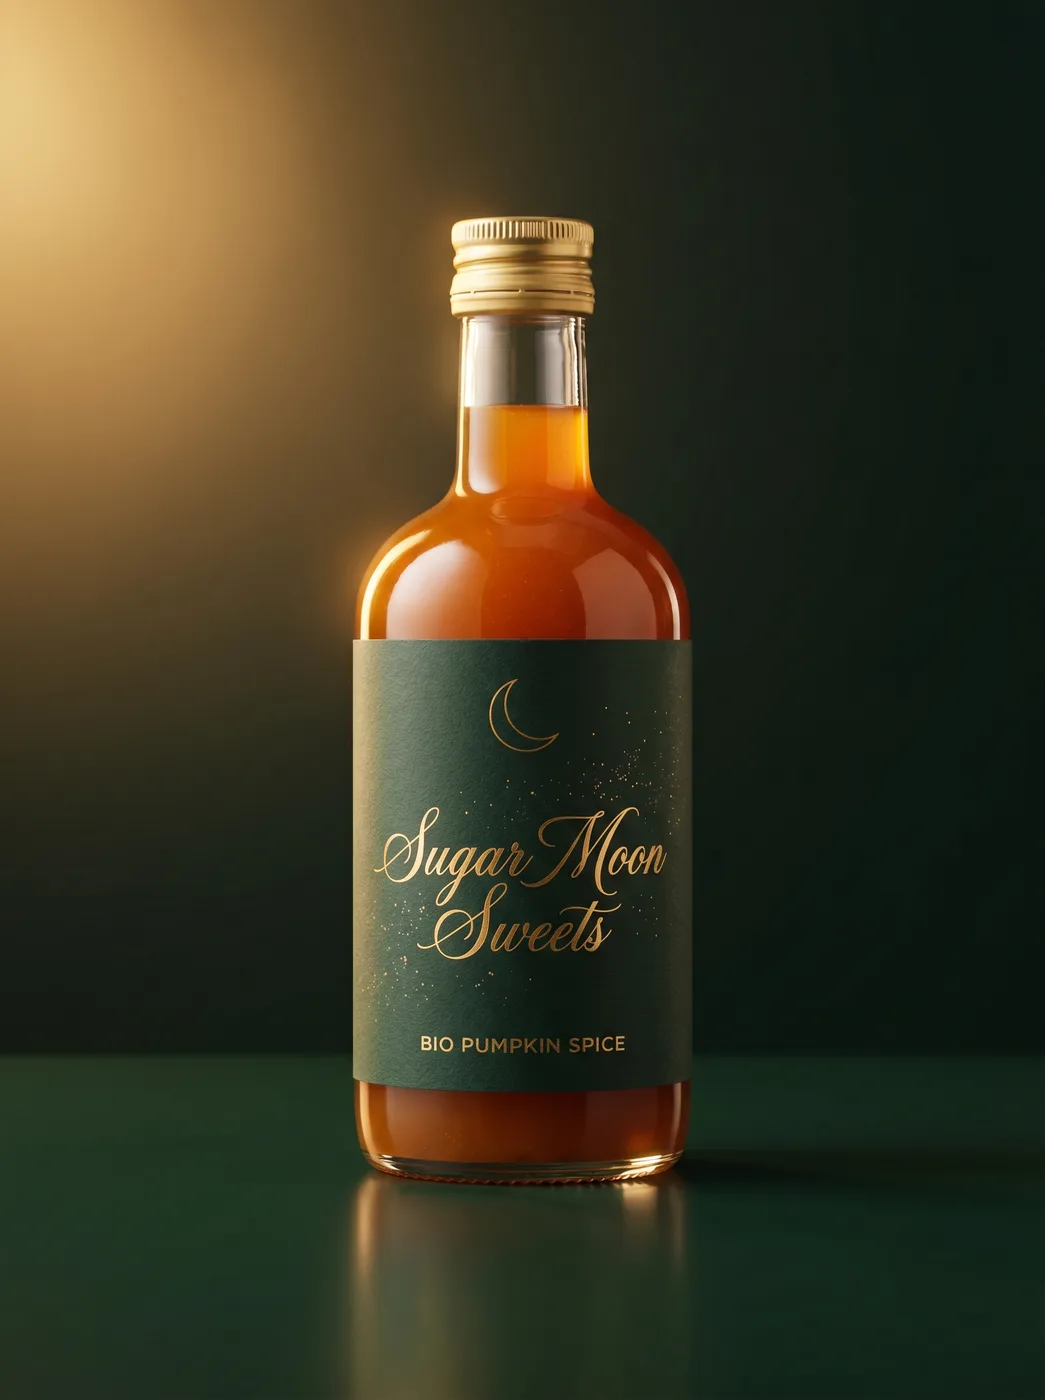
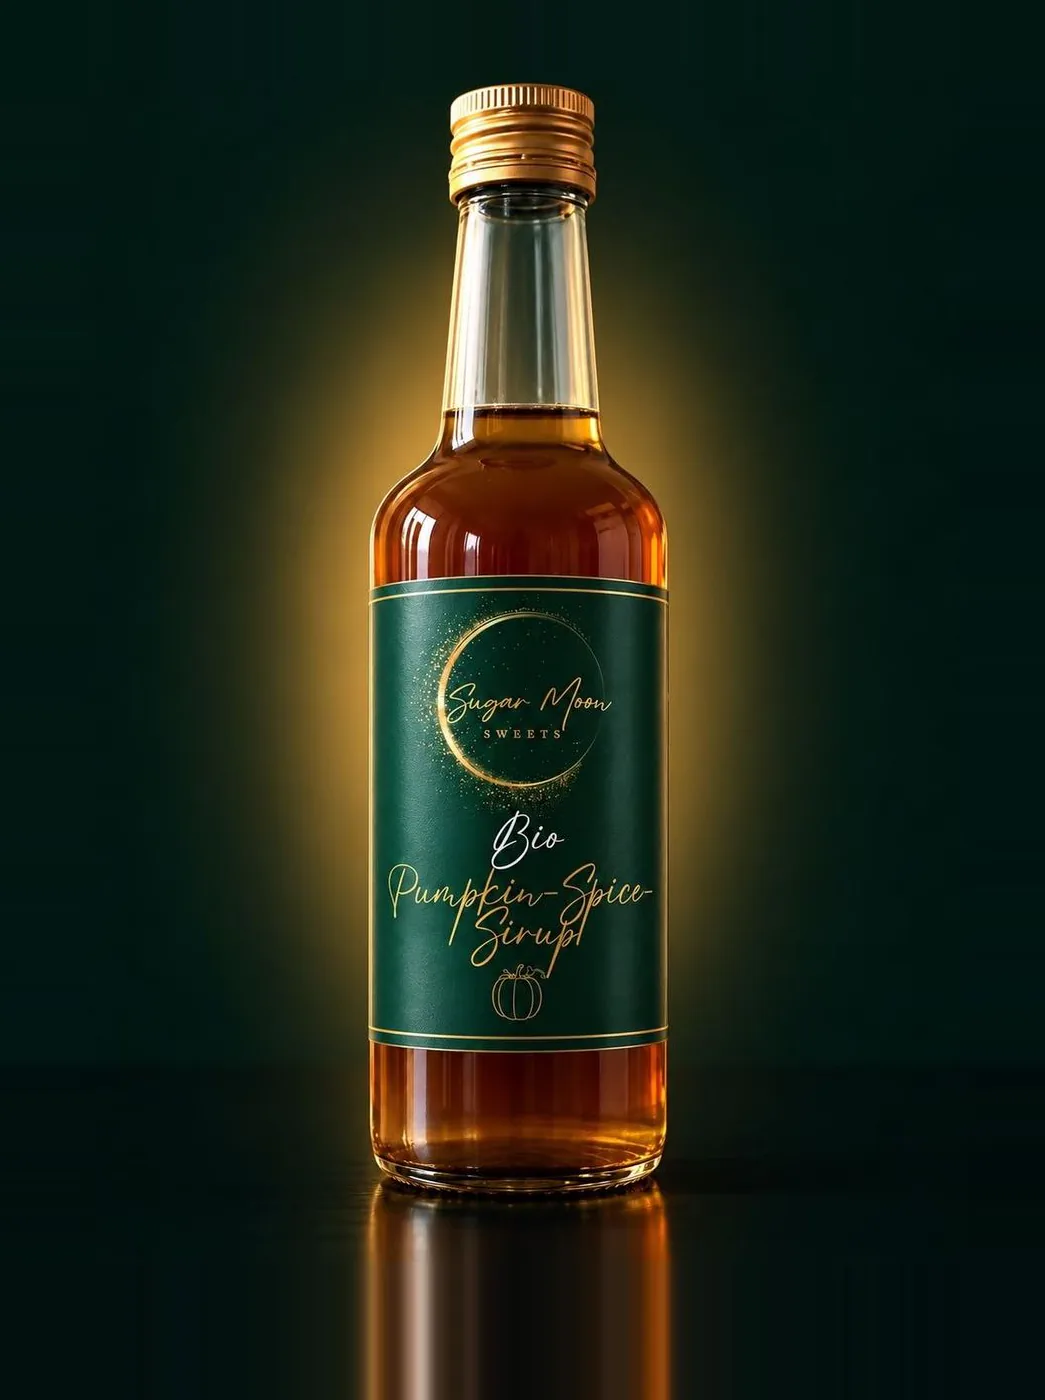
Stand-Foto und Pumpkin Spice durch Inhaber-Aufnahmen ersetzen (#3)
Zwei nachgelieferte Aufnahmen des Inhabers ersetzen die bisherigen Bilder:

- public/media/story.jpg — neues Marktstand-Foto (Jessica & Sebastian),
  1400x1120, JPEG q82, 160 KB statt 266 KB.
- public/media/relit/pumpkin-spice.webp — echtes Produktfoto statt des
  bisherigen KI-Renderings. Bratapfel bleibt das einzige KI-Bild der Seite.

Vorab wurden Bildunterschrift und Alt-Texte des Stand-Fotos auf die vom
Inhaber gewaehlte neutrale Variante ohne Ortsangabe umgestellt, damit sie
auch auf das neue, sommerliche Foto zutreffen. Dateinamen bleiben gleich,
kein Codepfad aendert sich.

Am Pumpkin-Foto wurde nur der Ausschnitt angepasst: Die Flasche fuellte
98 % der Bildhoehe, die Geschwisterbilder liegen bei 78-87 %. Sie steht
jetzt bei 86 %, der freiwerdende Rand ist durch Fortsetzen der Randpixel
aufgefuellt (Kanten-Delta <= 2 von 255). Kein Retuschieren, keine
Farbaenderung.

Originale bleiben unangetastet in source-assets/products/ bzw.
source-assets/ai-renders/. Doku nachgezogen: DECISIONS D29,
ASSET_INVENTORY, COPY_CHANGELOG, FINAL_REPORT, source-assets/README.

Geprueft: typecheck, lint, build (25/25 Seiten) gruen; Preview-Deployment
liefert beide Bilder byte-identisch aus.

diff --git a/app/ausstellungen/page.tsx b/app/ausstellungen/page.tsx
@@ -52,12 +52,14 @@ export default function AusstellungenPage() {
               </p>
             </div>
 
-            {/* So sieht das aus: der echte Stand in Rothemann — füllt die
-                vorher leere Kartenhälfte (Design-Review). */}
+            {/* So sieht das aus: der echte Marktstand — füllt die vorher
+                leere Kartenhälfte (Design-Review). Bildunterschrift/Alt
+                bewusst ohne Ortsangabe, damit sie zu jedem Stand-Foto passt
+                (Inhaber-Entscheidung). */}
             <div className="relative hidden min-h-[300px] md:block">
               <Image
                 src={storyImage}
-                alt="Jessica und Sebastian am Sugar-Moon-Stand, Adventsmarkt Rothemann"
+                alt="Jessica und Sebastian am Sugar-Moon-Marktstand"
                 fill
                 sizes="(min-width: 768px) 45vw, 100vw"
                 className="object-cover object-center"

diff --git a/components/sections/Story.tsx b/components/sections/Story.tsx
@@ -61,7 +61,7 @@ export function Story({
             <div className="relative aspect-[4/3] bg-night-3">
               <Image
                 src={storyImage}
-                alt="Jessica und Sebastian von Sugar Moon Sweets an ihrem Stand auf dem Adventsmarkt in Rothemann"
+                alt="Jessica und Sebastian von Sugar Moon Sweets an ihrem Marktstand"
                 fill
                 sizes="(max-width:1024px) 100vw, 560px"
                 className="object-cover object-center"
@@ -86,7 +86,7 @@ export function Story({
             </div>
           </div>
           <p className="mt-3 text-center font-mono text-[0.6rem] uppercase tracking-wide text-moon-mute">
-            Jessica &amp; Sebastian · Adventsmarkt Rothemann
+            Jessica &amp; Sebastian
           </p>
         </Reveal>
       </div>

diff --git a/data/enhanced.ts b/data/enhanced.ts
@@ -19,7 +19,10 @@ export const enhancedPhotos: Record<string, string> = {
   "vanille-extrakt": "/media/relit/vanille-extrakt.webp",
   "geschenk-lebkuchenmann": "/media/relit/geschenk-lebkuchenmann.webp",
 
-  // Studio-Renderings (text-to-image) für die Sorten ohne Originalfoto.
-  bratapfel: "/media/relit/bratapfel.webp",
+  // Echtes Inhaber-Produktfoto (nachgeliefert), nur skaliert/konvertiert —
+  // kein Relighting, kein Rendering.
   "pumpkin-spice": "/media/relit/pumpkin-spice.webp",
+
+  // Studio-Rendering (text-to-image) für die Sorte ohne Originalfoto.
+  bratapfel: "/media/relit/bratapfel.webp",
 };

diff --git a/data/media.ts b/data/media.ts
@@ -21,5 +21,5 @@ export const limoPhotos: Record<string, string> = {
   "kraut-heiter": "/media/products/kraut-heiter.jpg",
 };
 
-/** Atmosphäre-Bild für die „Über uns"-Story: Jessica & Sebastian am Adventsmarkt. */
+/** Atmosphäre-Bild für die „Über uns"-Story: Jessica & Sebastian am Marktstand. */
 export const storyImage = "/media/story.jpg";

diff --git a/docs/rebuild/ASSET_INVENTORY.md b/docs/rebuild/ASSET_INVENTORY.md
@@ -5,13 +5,15 @@
 
 ## 1. Produktfotos (Inhaber-Originale)
 
-Anlieferung: **13 Dateien** vom Inhaber in `source-assets/products/` —
-10 Produkt-/Flaschenmotive + `adventsmarkt-jessica-sebastian.jpg` +
+Anlieferung: **15 Dateien** vom Inhaber in `source-assets/products/` —
+11 Produkt-/Flaschenmotive + zwei Stand-Fotos
+(`adventsmarkt-jessica-sebastian.jpg`, `marktstand-jessica-sebastian.jpg`) +
 `limonaden-original.jpg` (Gruppenbild) + `zimt-alt.jpg` (Alternativtake).
 (CONTENT_INVENTORY §8b spricht von „11 Fotos": 10 Flaschenmotive + Adventsmarkt;
-Gruppenbild und Alternativtake kamen zusätzlich.)
-`public/media/originals/` spiegelt die **10 Flaschenmotive** zusätzlich;
-die drei übrigen Dateien liegen nur in `source-assets/products/` —
+Gruppenbild und Alternativtake kamen zusätzlich, `pumpkin-spice.jpg` und das
+neue Stand-Foto wurden später nachgeliefert — D29.)
+`public/media/originals/` spiegelt die **10 zuerst gelieferten Flaschenmotive**
+zusätzlich; die übrigen Dateien liegen nur in `source-assets/products/` —
 ebenfalls unangetastet im Repo.
 
 | Sorte / Motiv | Original | Getönt (Fallback) | Relit (aktiv im Shop) |
@@ -26,8 +28,10 @@ ebenfalls unangetastet im Repo.
 | Bio-Kokos | `…/kokos.jpg` | `…/kokos.jpg` | `…/kokos.webp` |
 | Bio-Vanille-Extrakt | `…/vanille-extrakt.jpg` | `…/vanille-extrakt.jpg` | `…/vanille-extrakt.webp` |
 | 50ml-Geschenk (Lebkuchenmann) | `…/geschenk-lebkuchenmann.jpg` | `…/geschenk-lebkuchenmann.jpg` | `…/geschenk-lebkuchenmann.webp` |
+| Bio-Pumpkin Spice *(nachgeliefert, D29)* | `…/pumpkin-spice.jpg` (1084×1451) | — | `…/pumpkin-spice.webp` (1045×1400, 61 KB) |
 | Limonaden-Gruppenfoto | `…/limonaden-original.jpg` | — | — (Quelle für Limo-Einzelbilder) |
-| Adventsmarkt **Rothemann** (Jessica & Sebastian) | `…/adventsmarkt-jessica-sebastian.jpg` | — | → `public/media/story.jpg` (Legacy-Quelle: `Advent-Rothemann_2025`) |
+| Adventsmarkt **Rothemann** (Jessica & Sebastian) | `…/adventsmarkt-jessica-sebastian.jpg` | — | — (bis D29 Quelle von `public/media/story.jpg`; Legacy-Quelle: `Advent-Rothemann_2025`) |
+| Marktstand (Jessica & Sebastian) *(nachgeliefert, D29)* | `…/marktstand-jessica-sebastian.jpg` (1402×1122) | — | → `public/media/story.jpg` (1400×1120, 160 KB) |
 
 **Pipeline-Herkunft:**
 - *Getönt* („darkroom"): lokale Tonwert-Anpassung der Originale auf den
@@ -37,13 +41,29 @@ ebenfalls unangetastet im Repo.
   Ursprünglich CDN-gehostet; in dieser Session heruntergeladen, auf max.
   1400 px verkleinert, WebP q82 (25–43 KB) → `public/media/relit/`, Verweise
   in `data/enhanced.ts`. **Keine externe CDN-Abhängigkeit mehr.**
+- *Ausnahme Pumpkin Spice:* Das Foto kam fertig im Studio-Look vom Inhaber und
+  wurde **nicht** relightet — nur auf 1045×1400 gebracht und als WebP q82
+  gespeichert. Es liegt im selben Ordner, weil `data/enhanced.ts` dorthin zeigt.
+  Einziger Eingriff: Die Flasche stand randlos im Originalausschnitt (98 % der
+  Bildhöhe), die Geschwisterbilder liegen bei 78–87 %. Sie wurde deshalb auf
+  86 % herunterskaliert und der freiwerdende Rand durch Fortsetzen der
+  Randpixel (`extendWith: "copy"`) aufgefüllt — messbar nahtlos (Δ ≤ 2 von 255
+  an der Kante). Damit steht die Flasche in der Shop-Kachel exakt so groß wie
+  alle anderen; Bildinhalt und Farben bleiben unangetastet.
+- *Story-Foto:* nur auf 1400 px Breite skaliert, JPEG q82 (mozjpeg,
+  progressiv) — keine Tonwert-Bearbeitung.
 
 ## 2. KI-Renderings (keine Original-Basis)
 
 | Motiv | Datei | Herkunft |
 |---|---|---|
 | Bio-Bratapfel (Coming Soon) | `public/media/relit/bratapfel.webp` | Higgsfield Text-to-Image-Studio-Rendering (kein Inhaber-Foto vorhanden) |
-| Bio-Pumpkin Spice | `public/media/relit/pumpkin-spice.webp` | dito |
+
+**Abgelöst:** Bio-Pumpkin Spice war bis D29 ebenfalls ein solches Rendering.
+Seit der Nachlieferung des echten Produktfotos steht es in §1; das ausgemusterte
+Rendering ist nicht gelöscht, sondern liegt unter
+`source-assets/ai-renders/pumpkin-spice.webp`. Damit bleibt **Bratapfel das
+einzige KI-Bild der Website**.
 
 ## 3. Limonaden (Hunfelt-Bräu-Flaschen)
 
@@ -64,7 +84,7 @@ ebenfalls unangetastet im Repo.
 
 | Asset | Datei | Hinweis |
 |---|---|---|
-| Story-Bild | `public/media/story.jpg` | Inhaber-Foto Adventsmarkt, 266 KB |
+| Story-Bild | `public/media/story.jpg` | Inhaber-Foto Marktstand, 1400×1120, 160 KB (seit D29; vorher das Adventsmarkt-Foto mit 266 KB) |
 | Favicon | `public/favicon.svg` | neu gezeichnetes Crescent-SVG |
 | Logo/Emblem | `components/brand/MoonMark.tsx`, `Logo.tsx`, `Drop.tsx` | Vektor-Neuzeichnung nach echtem Etikett (kein Bitmap) |
 | OG-Image | `app/opengraph-image.tsx` → statisch generiert | 1200×630, Fraunces-600 (`assets/fonts/`, OFL) |

diff --git a/source-assets/README.md b/source-assets/README.md
@@ -5,9 +5,11 @@ Image-Slot-System ein (`lib/products.ts` → Feld `photo`). Bis Dateien hier
 liegen, zeigt die Seite elegante Platzhalter (Mond/Glas-Art-Direction).
 
 > ⚠ **Wichtig:** In den Chat gepastete Bilder landen **nicht** automatisch im
-> Repo-Dateisystem — ich (Claude) kann ihre Bytes nicht lesen. Damit die echten
-> Fotos auf der Seite erscheinen, müssen die Dateien hier als echte Dateien
-> liegen (per Git committen oder in `./source-assets/products/` ablegen).
+> Repo-Dateisystem. Damit die echten Fotos auf der Seite erscheinen, müssen die
+> Dateien hier als echte Dateien liegen — per Git committen, in
+> `./source-assets/products/` ablegen oder über die Upload-Seite hochladen, die
+> in der Session gebaut wurde (die Bytes landen dann im Artifact-Speicher und
+> werden von dort ins Repo geschrieben).
 
 ## Erwartete Dateien (`source-assets/products/`)
 Benenne die Fotos exakt so — dann werden sie automatisch verdrahtet:
@@ -33,6 +35,11 @@ Benenne die Fotos exakt so — dann werden sie automatisch verdrahtet:
 Format egal (jpg/png/webp/heic) — die Build-Pipeline (`scripts/optimize-media`)
 konvertiert nach WebP/AVIF und legt sie unter `public/media/products/` ab.
 Fehlende Dateien → Platzhalter, kein Fehler.
+
+## ai-renders/
+Abgelöste KI-Renderings, die durch echte Inhaber-Fotos ersetzt wurden. Sie
+werden **nicht gelöscht**, damit jederzeit nachvollziehbar bleibt, was vorher
+auf der Seite stand (aktuell: `pumpkin-spice.webp`, siehe `DECISIONS.md` D29).
 
 ## legacy/
 Inventar der Legacy-URL-Assets (nicht ladbar in dieser Umgebung, Host blockiert).

diff --git a/docs/rebuild/DECISIONS.md b/docs/rebuild/DECISIONS.md
@@ -129,3 +129,21 @@ Laufendes Log getroffener Entscheidungen (begründete Defaults statt Blockaden).
   erfunden (§2-Regel) — falls gewünscht, muss der Inhaber sie liefern.
   Keine Rechtsberatung; finale Prüfung beim Inhaber/Anwalt.
 
+- **D29:** Zwei Bilder durch nachgelieferte Inhaber-Aufnahmen ersetzt: das
+  Stand-Foto (`public/media/story.jpg`) und Bio-Pumpkin Spice
+  (`public/media/relit/pumpkin-spice.webp`). Damit ist Pumpkin Spice **kein
+  KI-Rendering mehr**, sondern ein echtes Produktfoto — Bratapfel bleibt als
+  einziges Rendering übrig. Regel wie bisher: Originale werden nie
+  überschrieben. Die Neuzugänge liegen unangetastet in
+  `source-assets/products/` (`marktstand-jessica-sebastian.jpg`,
+  `pumpkin-spice.jpg`), das abgelöste Rendering unter
+  `source-assets/ai-renders/pumpkin-spice.webp`; das bisherige Stand-Foto
+  bleibt als `source-assets/products/adventsmarkt-jessica-sebastian.jpg`
+  erhalten. Ausgeliefert werden nur Ableitungen (JPEG q82 / WebP q82) unter
+  den **unveränderten Dateinamen** — kein Codepfad ändert sich. Die
+  Bildunterschriften waren bereits neutral (ohne Ortsangabe) formuliert und
+  passen deshalb unverändert auf das neue, sommerliche Stand-Foto. Am
+  Pumpkin-Foto wurde ausschließlich der **Ausschnitt** angepasst (Flasche von
+  98 % auf 86 % Bildhöhe, Rand durch Fortsetzen der Randpixel aufgefüllt),
+  damit die Flasche in der Shop-Kachel dieselbe Größe hat wie die
+  Geschwisterbilder — kein Retuschieren, keine Farbänderung.

diff --git a/docs/rebuild/COPY_CHANGELOG.md b/docs/rebuild/COPY_CHANGELOG.md
@@ -146,3 +146,17 @@ wurden nur neu durchnummeriert (5→9, 6→10, 7→11, 8→12).
    der Auftragsverarbeitungsverträge sind zu bestätigen; §5/§6 setzen beide
    AVV als geschlossen voraus.
 
+### Bildunterschrift Stand-Foto: Ortsangabe entfernt (Inhaber-Entscheidung)
+
+| Vorher | Nachher | Grund |
+|---|---|---|
+| Caption `/story` + Startseite: „Jessica & Sebastian · Adventsmarkt Rothemann" | „Jessica & Sebastian" | Der Inhaber ersetzt das Stand-Foto durch eine neuere Aufnahme, die **nicht** auf dem Adventsmarkt entstand (Sommerlicht, Lavendel, keine Weihnachtsdeko). Auf Nachfrage entschied er sich für die **neutrale** Variante ohne Ortsangabe — sie bleibt für jedes Stand-Foto zutreffend. |
+| Alt-Text `/story`: „… an ihrem Stand auf dem Adventsmarkt in Rothemann" | „… an ihrem Marktstand" | wie oben |
+| Alt-Text `/ausstellungen`: „… Adventsmarkt Rothemann" | „… am Sugar-Moon-Marktstand" | wie oben |
+
+Nachtrag: Der Bildtausch ist erfolgt — `public/media/story.jpg` zeigt jetzt die
+neue Aufnahme am Marktstand (D29, ASSET_INVENTORY §1/§5 nachgezogen). Die oben
+beschriebenen neutralen Captions und Alt-Texte passen unverändert; **kein
+Textbaustein musste erneut geändert werden.** Die Ortsangabe „Rothemann" bleibt
+als Korrektur des erfundenen „Fulda" in der Historie oben dokumentiert.
+

diff --git a/docs/rebuild/FINAL_REPORT.md b/docs/rebuild/FINAL_REPORT.md
@@ -75,9 +75,10 @@ ausgelegt (CLS 0, Poster-LCP, kein Render-Blocking durch GSAP).
   Fraunces-Varianten (normal/italic) auf eine reduzieren.
 - **Echtes Checkout** (Stripe) — die Architektur ist vorbereitet (G3/D17);
   der mailto-Flow ist jetzt ehrlich, bleibt aber ein manueller Prozess.
-- **Fotos für Bratapfel & Pumpkin Spice** — aktuell KI-Studio-Renderings
-  (dokumentiert); echte Flaschenfotos ersetzen sie ohne Codeänderung
-  (gleiche Dateinamen in `public/media/relit/`).
+- **Foto für Bratapfel** — die letzte verbliebene KI-Studio-Rendering
+  (dokumentiert); ein echtes Flaschenfoto ersetzt sie ohne Codeänderung
+  (gleicher Dateiname in `public/media/relit/`). Pumpkin Spice und das
+  Stand-Foto wurden inzwischen durch Inhaber-Aufnahmen ersetzt (D29).
 - Optional: Produkt-JSON-LD um `shippingDetails`/`hasMerchantReturnPolicy`
   ergänzen, wenn Merchant-Rich-Results gewünscht sind.
 
